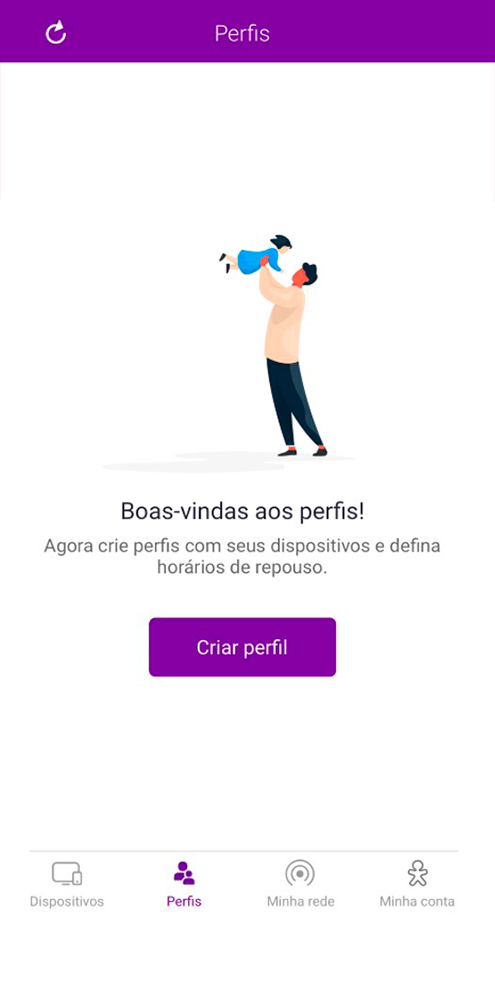
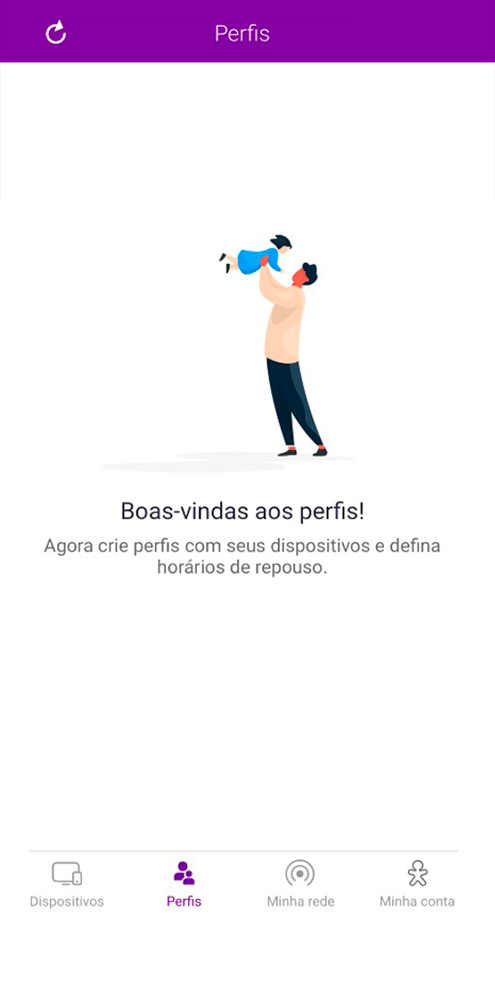
commit ajustes telas 69, 70 e 71.

Changed region(s): [[0.2727, 0.62, 0.697, 0.682]]

diff --git a/course/screens/69/tela.js b/course/screens/69/tela.js
@@ -1,32 +1,32 @@
 function init() {
-    // refers
-    let mascara = document.querySelector(".mascara_balao");
-    let balao = document.querySelector(".balao.b0");
-    let btFecharBalao = document.querySelector(".balao button.fechar");
+  // refers
+  let mascara = document.querySelector(".mascara_balao");
+  let balao = document.querySelector(".balao.b0");
+  let btFecharBalao = document.querySelector(".balao button.fechar");
 
-    let destaque = document.querySelector(".destaque.d0");
+  let destaque = document.querySelector(".foco");
 
-    // balloon events
-    let showDestaque = _ => {
-      destaque.style.display = "block";
-    }
+  // balloon events
+  let showDestaque = _ => {
+    destaque.classList.add('pulse')
+  }
 
-    let handleCloseBalloon = (e) => {
-      e.target.parentNode.style.display = "none";
-      mascara.style.display = "none";
+  let handleCloseBalloon = (e) => {
+    e.target.parentNode.style.display = "none";
+    mascara.style.display = "none";
 
-      showDestaque();
-    }
-    btFecharBalao.addEventListener("click", handleCloseBalloon);
+    showDestaque();
+  }
+  btFecharBalao.addEventListener("click", handleCloseBalloon);
 
-    // destaque events
-    let handleAvancar = (e) => {
-      screen.next();
-    }
-    destaque.addEventListener("click", handleAvancar);
-    
-    // Animation
-    let tl = new gsap.timeline();
-    tl.fromTo(mascara, .8, { opacity: 0 }, { opacity: 1, delay: .5 });
-    tl.fromTo(balao, .8, { opacity: 0 }, { opacity: 1 });
+  // destaque events
+  let handleAvancar = (e) => {
+    screen.next();
+  }
+  destaque.addEventListener("click", handleAvancar);
+
+  // Animation
+  let tl = new gsap.timeline();
+  tl.fromTo(mascara, .8, { opacity: 0 }, { opacity: 1, delay: .5 });
+  tl.fromTo(balao, .8, { opacity: 0 }, { opacity: 1 });
 }

diff --git a/course/screens/70/tela.js b/course/screens/70/tela.js
@@ -1,32 +1,32 @@
 function init() {
-    // refers
-    let mascara = document.querySelector(".mascara_balao");
-    let balao = document.querySelector(".balao.b0");
-    let btFecharBalao = document.querySelector(".balao button.fechar");
+  // refers
+  let mascara = document.querySelector(".mascara_balao");
+  let balao = document.querySelector(".balao.b0");
+  let btFecharBalao = document.querySelector(".balao button.fechar");
 
-    let destaque = document.querySelector(".destaque.d0");
+  let destaque = document.querySelector(".foco");
 
-    // balloon events
-    let showDestaque = _ => {
-      destaque.style.display = "block";
-    }
+  // balloon events
+  let showDestaque = _ => {
+    destaque.classList.add('pulse')
+  }
 
-    let handleCloseBalloon = (e) => {
-      e.target.parentNode.style.display = "none";
-      mascara.style.display = "none";
+  let handleCloseBalloon = (e) => {
+    e.target.parentNode.style.display = "none";
+    mascara.style.display = "none";
 
-      showDestaque();
-    }
-    btFecharBalao.addEventListener("click", handleCloseBalloon);
+    showDestaque();
+  }
+  btFecharBalao.addEventListener("click", handleCloseBalloon);
 
-    // destaque events
-    let handleAvancar = (e) => {
-      screen.next();
-    }
-    destaque.addEventListener("click", handleAvancar);
-    
-    // Animation
-    let tl = new gsap.timeline();
-    tl.fromTo(mascara, .8, { opacity: 0 }, { opacity: 1, delay: .5 });
-    tl.fromTo(balao, .8, { opacity: 0 }, { opacity: 1 });
+  // destaque events
+  let handleAvancar = (e) => {
+    screen.next();
+  }
+  destaque.addEventListener("click", handleAvancar);
+
+  // Animation
+  let tl = new gsap.timeline();
+  tl.fromTo(mascara, .8, { opacity: 0 }, { opacity: 1, delay: .5 });
+  tl.fromTo(balao, .8, { opacity: 0 }, { opacity: 1 });
 }

diff --git a/course/screens/71/tela.js b/course/screens/71/tela.js
@@ -7,7 +7,7 @@ function init() {
   let balao = document.querySelector(".balao.b0");
   let btFecharBalao = document.querySelector(".balao button.fechar");
 
-  let destaques = document.querySelectorAll(".destaque");
+  let destaque = document.querySelector(".foco");
 
   let inputField = document.querySelector("input.nome");
 
@@ -17,7 +17,7 @@ function init() {
   // on first focus...
   inputField.addEventListener("focus", e => {
     e.target.value = "";
-    destaques[0].style.display = "none";
+    e.target.className = "nome abs"
   })
 
   // on leaving field...
@@ -29,21 +29,14 @@ function init() {
   inputField.addEventListener("input", e => {
     if (e.target.value.length >= validString.length) {
       // enable pulse for avatar sel.
-      destaques[1].style.display = "block";
+      destaque.className = "divImg foco pulse"
     }
   })
-
-  // balloon events
-  let showDestaque = (dest) => {
-    destaques[dest].style.display = "block";
-  }
 
   // close balloon event
   let handleCloseBalloon = (e) => {
     e.target.parentNode.style.display = "none";
     mascara.style.display = "none";
-
-    showDestaque(0);
   }
   btFecharBalao.addEventListener("click", handleCloseBalloon);
 
@@ -67,14 +60,13 @@ function init() {
       feedNeg.style.display = "flex";
     }
   }
-  destaques[1].addEventListener("click", handleAvancar);
+  destaque.addEventListener("click", handleAvancar);
 
   // feedback events
   let handleCloseFeed = (e) => {
     // Close feed, clean input + hide destaque[1] 
     e.target.parentNode.style.display = "none";
     inputField.value = "";
-    destaques[1].style.display = "none";
   }
   btFecharFeed.addEventListener("click", handleCloseFeed);
 

diff --git a/course/screens/71/tela.css b/course/screens/71/tela.css
@@ -20,32 +20,24 @@
     height: 39%;
 }
 
-.destaque.d0 {
-    display: none;
-    pointer-events: none;
-    left: 50%;
-    top: 18%;
-    width: 88%;
-    height: 7%;
-}
-
-.destaque.d1 {
-    display: none;
-    left: 18%;
+.foco {
     top: 40%;
-    width: 20%;
+    left: 18.2%;
+    width: 20.5%;
     height: 12%;
+    background-image: url(../../img/btn_print_icone_perfil.png);
 }
 
 input[type="text"] {
-    top: 18%;
-    left: 50%;
-    width: 83%;
-    font-family: 'VivoTypeRegular';
-    font-size: 1.9rem;
-    color: #cbcbcb;
-    padding: .5rem;
+    top: 18.5%;
+    left: 50.1%;
+    width: 39rem;
     border: none;
+    padding: .5rem;
+    color: #cbcbcb;
+    font-size: 1.9rem;
+    font-family: 'VivoTypeRegular';
+    border-bottom: 0.2rem solid #cbcbcb;
 }
 
 .feedback {
@@ -55,6 +47,7 @@ input[type="text"] {
     position: absolute;
     top: 0;
     left: 0;
+    z-index: 4;
     width: 100%;
     height: 100%;
     background: rgba(44, 5, 59, .95);

diff --git a/course/screens/71/tela.html b/course/screens/71/tela.html
@@ -13,14 +13,13 @@
         </div>
     </div>
 
-    <input type="text" class="nome abs" value="Nome">
+    <input type="text" class="nome abs pulse" value="Nome">
 
-    <div class="destaque d0 abs pulse"></div>
-    <div class="destaque d1 abs pulse"></div>
+    <div class="divImg foco"></div>
 
     <div class="feedback">
         <img src="./img/feed_neg.png" alt="">
-        <button class="fechar"></button>
+        <button class="fechar pulse2"></button>
     </div>
 </div>
 

diff --git a/course/screens/70/tela.css b/course/screens/70/tela.css
@@ -14,16 +14,15 @@
 }
 
 .hole {
-    left: 49%;
-    top: 64.6%;
+    top: 64.72%;
+    left: 49.1%;
     width: 36%;
     height: 7.5%;
 }
 
-.destaque.d0 {
-    display: none;
-    left: 49%;
+.foco {
     top: 64.7%;
-    width: 39%;
-    height: 8%;
+    left: 49.1%;
+    width: 16.1rem;
+    background-image: url(../../img/btn_print_criar_perfil.png);
 }

diff --git a/course/screens/69/tela.css b/course/screens/69/tela.css
@@ -20,10 +20,10 @@
     height: 9%;
 }
 
-.destaque.d0 {
-    display: none;
-    left: 38%;
-    top: 93%;
-    width: 17.5%;
-    height: 9%;
+.foco {
+    top: 93.1%;
+    left: 38.5%;
+    width: 3.8rem;
+    height: 5rem;
+    background-image: url(../../img/btn_print_icone_perfis.png);
 }

diff --git a/course/screens/69/tela.html b/course/screens/69/tela.html
@@ -13,7 +13,7 @@
         </div>
     </div>
 
-    <div class="destaque d0 abs pulse"></div>
+    <div class="divImg foco"></div>
 </div>
 
 <!-- Tela Js -->

diff --git a/course/screens/70/tela.html b/course/screens/70/tela.html
@@ -13,7 +13,7 @@
         </div>
     </div>
 
-    <div class="destaque d0 abs pulse"></div>
+    <div class="divImg foco"></div>
 </div>
 
 <!-- Tela Js -->

diff --git a/course/js/main.js b/course/js/main.js
@@ -1,6 +1,6 @@
 //Numero de telas
 var n_telas = 1;
-var c_screen = 66;
+var c_screen = 71;
 
 const container = $("#loaded_content");
 
